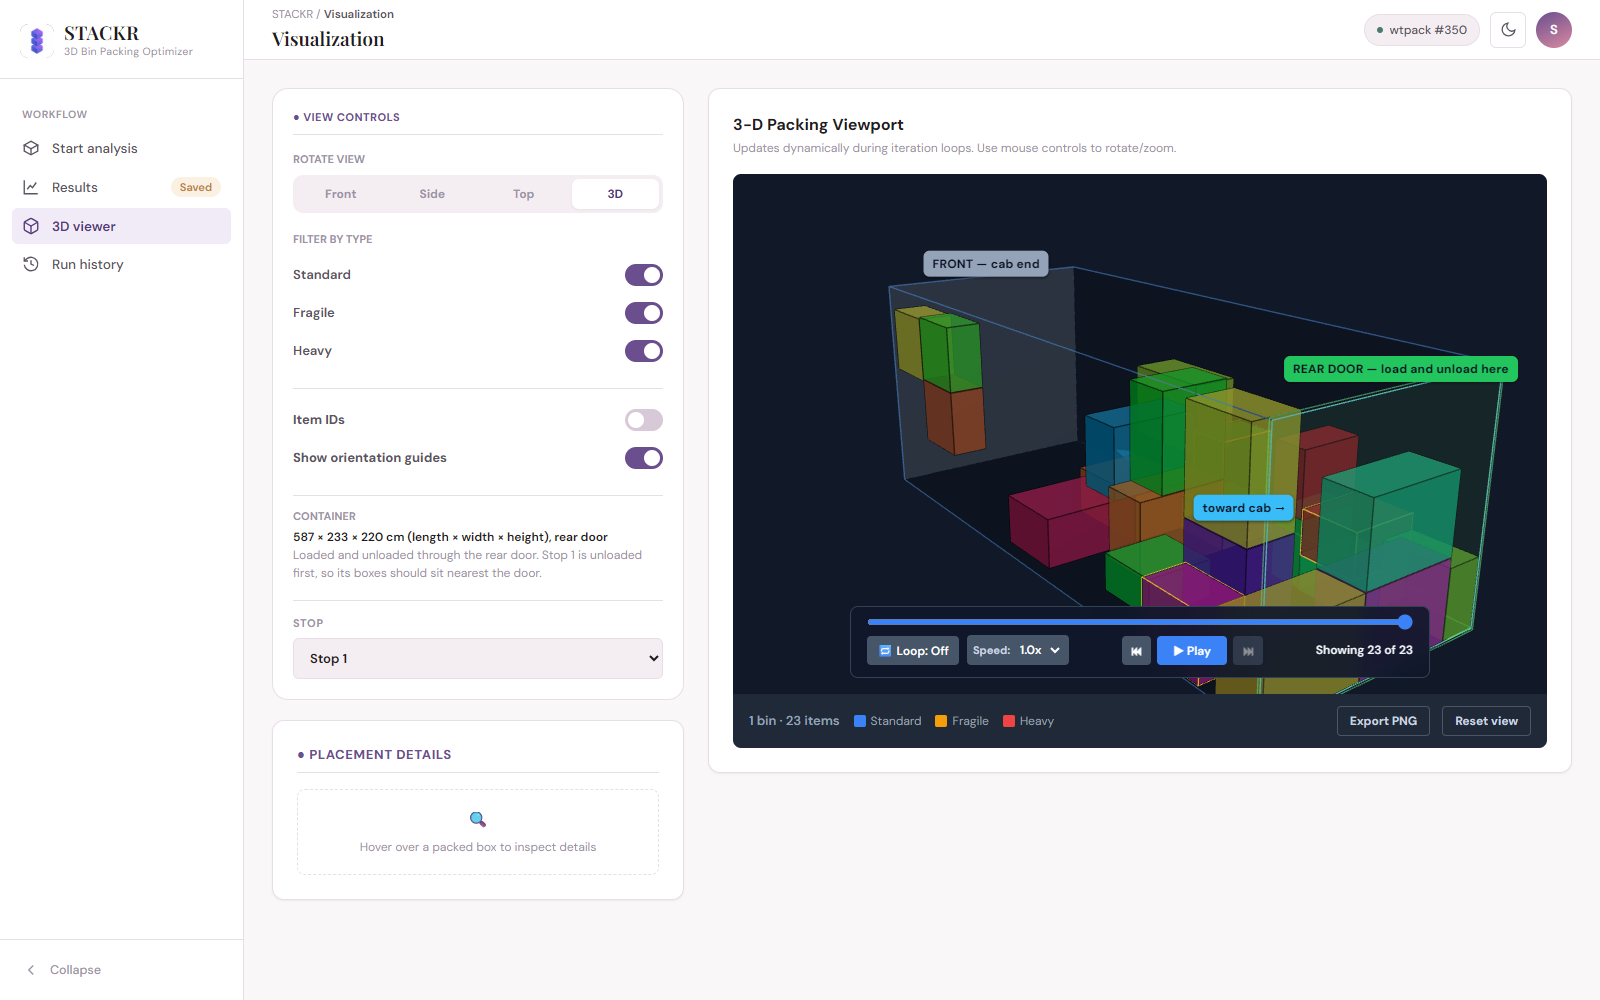
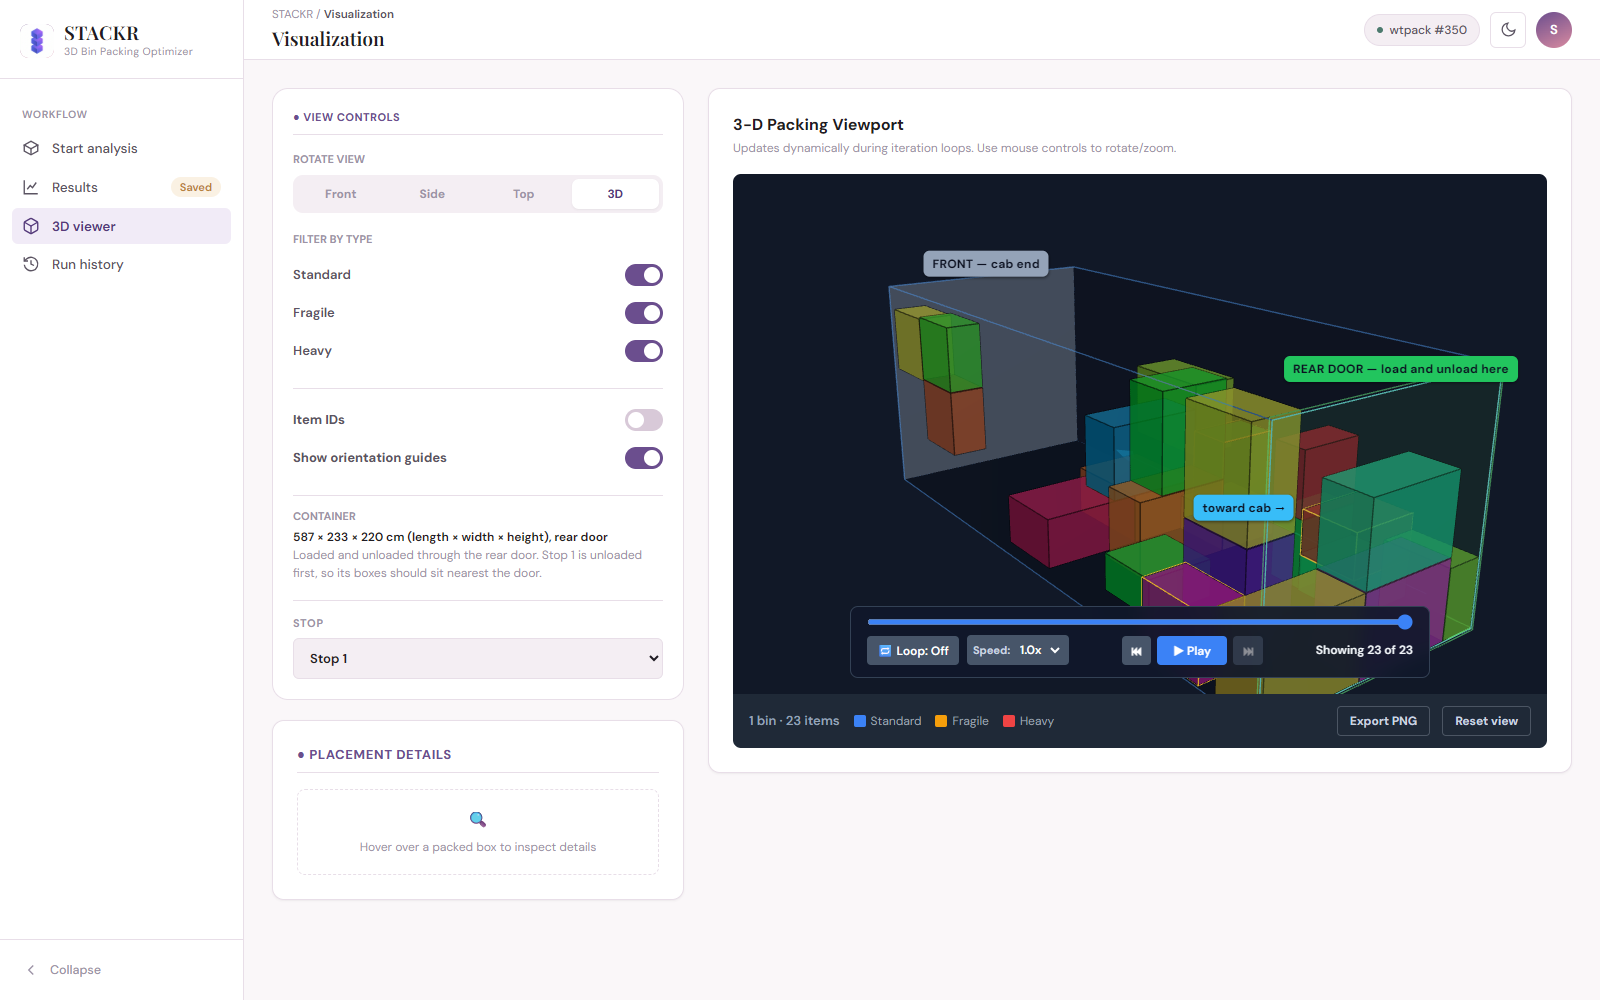
fix: cab-end wall is opaque, as the spec's "shade that end wall solid"
The guide wall was meshStandardMaterial at opacity 0.55, which combined
with WireBox's own 0.2 end-wall layer to read as a mid grey. Dropping
`transparent`/`opacity` makes it genuinely solid, restoring the intended
contrast against the rear door's faint translucent panel (opacity 0.10).
Nothing is behind the cab end, and the plane now sits at z = D + 0.3
outside the cargo volume, so an opaque wall occludes no box.

Screenshots re-captured for both fixtures plus dark mode.

Changed region(s): [[0.5312, 0.248, 0.6875, 0.496]]

diff --git a/client/src/BinViewer.jsx b/client/src/BinViewer.jsx
@@ -139,7 +139,7 @@ const OrientationGuides = React.memo(function OrientationGuides({ L, H, D }) {
           never intersected by the wall plane. */}
       <mesh position={[L / 2, H / 2, D + 0.3]}>
         <planeGeometry args={[L, H]} />
-        <meshStandardMaterial color={FRONT_COLOR} transparent opacity={0.55} roughness={0.8} side={THREE.DoubleSide} />
+        <meshStandardMaterial color={FRONT_COLOR} roughness={0.8} side={THREE.DoubleSide} />
       </mesh>
       <Html position={[L / 2, H + 14, D]} center zIndexRange={[5, 0]}>
         <div style={{ ...guideLabelStyle, background: FRONT_COLOR }}>FRONT — cab end</div>
